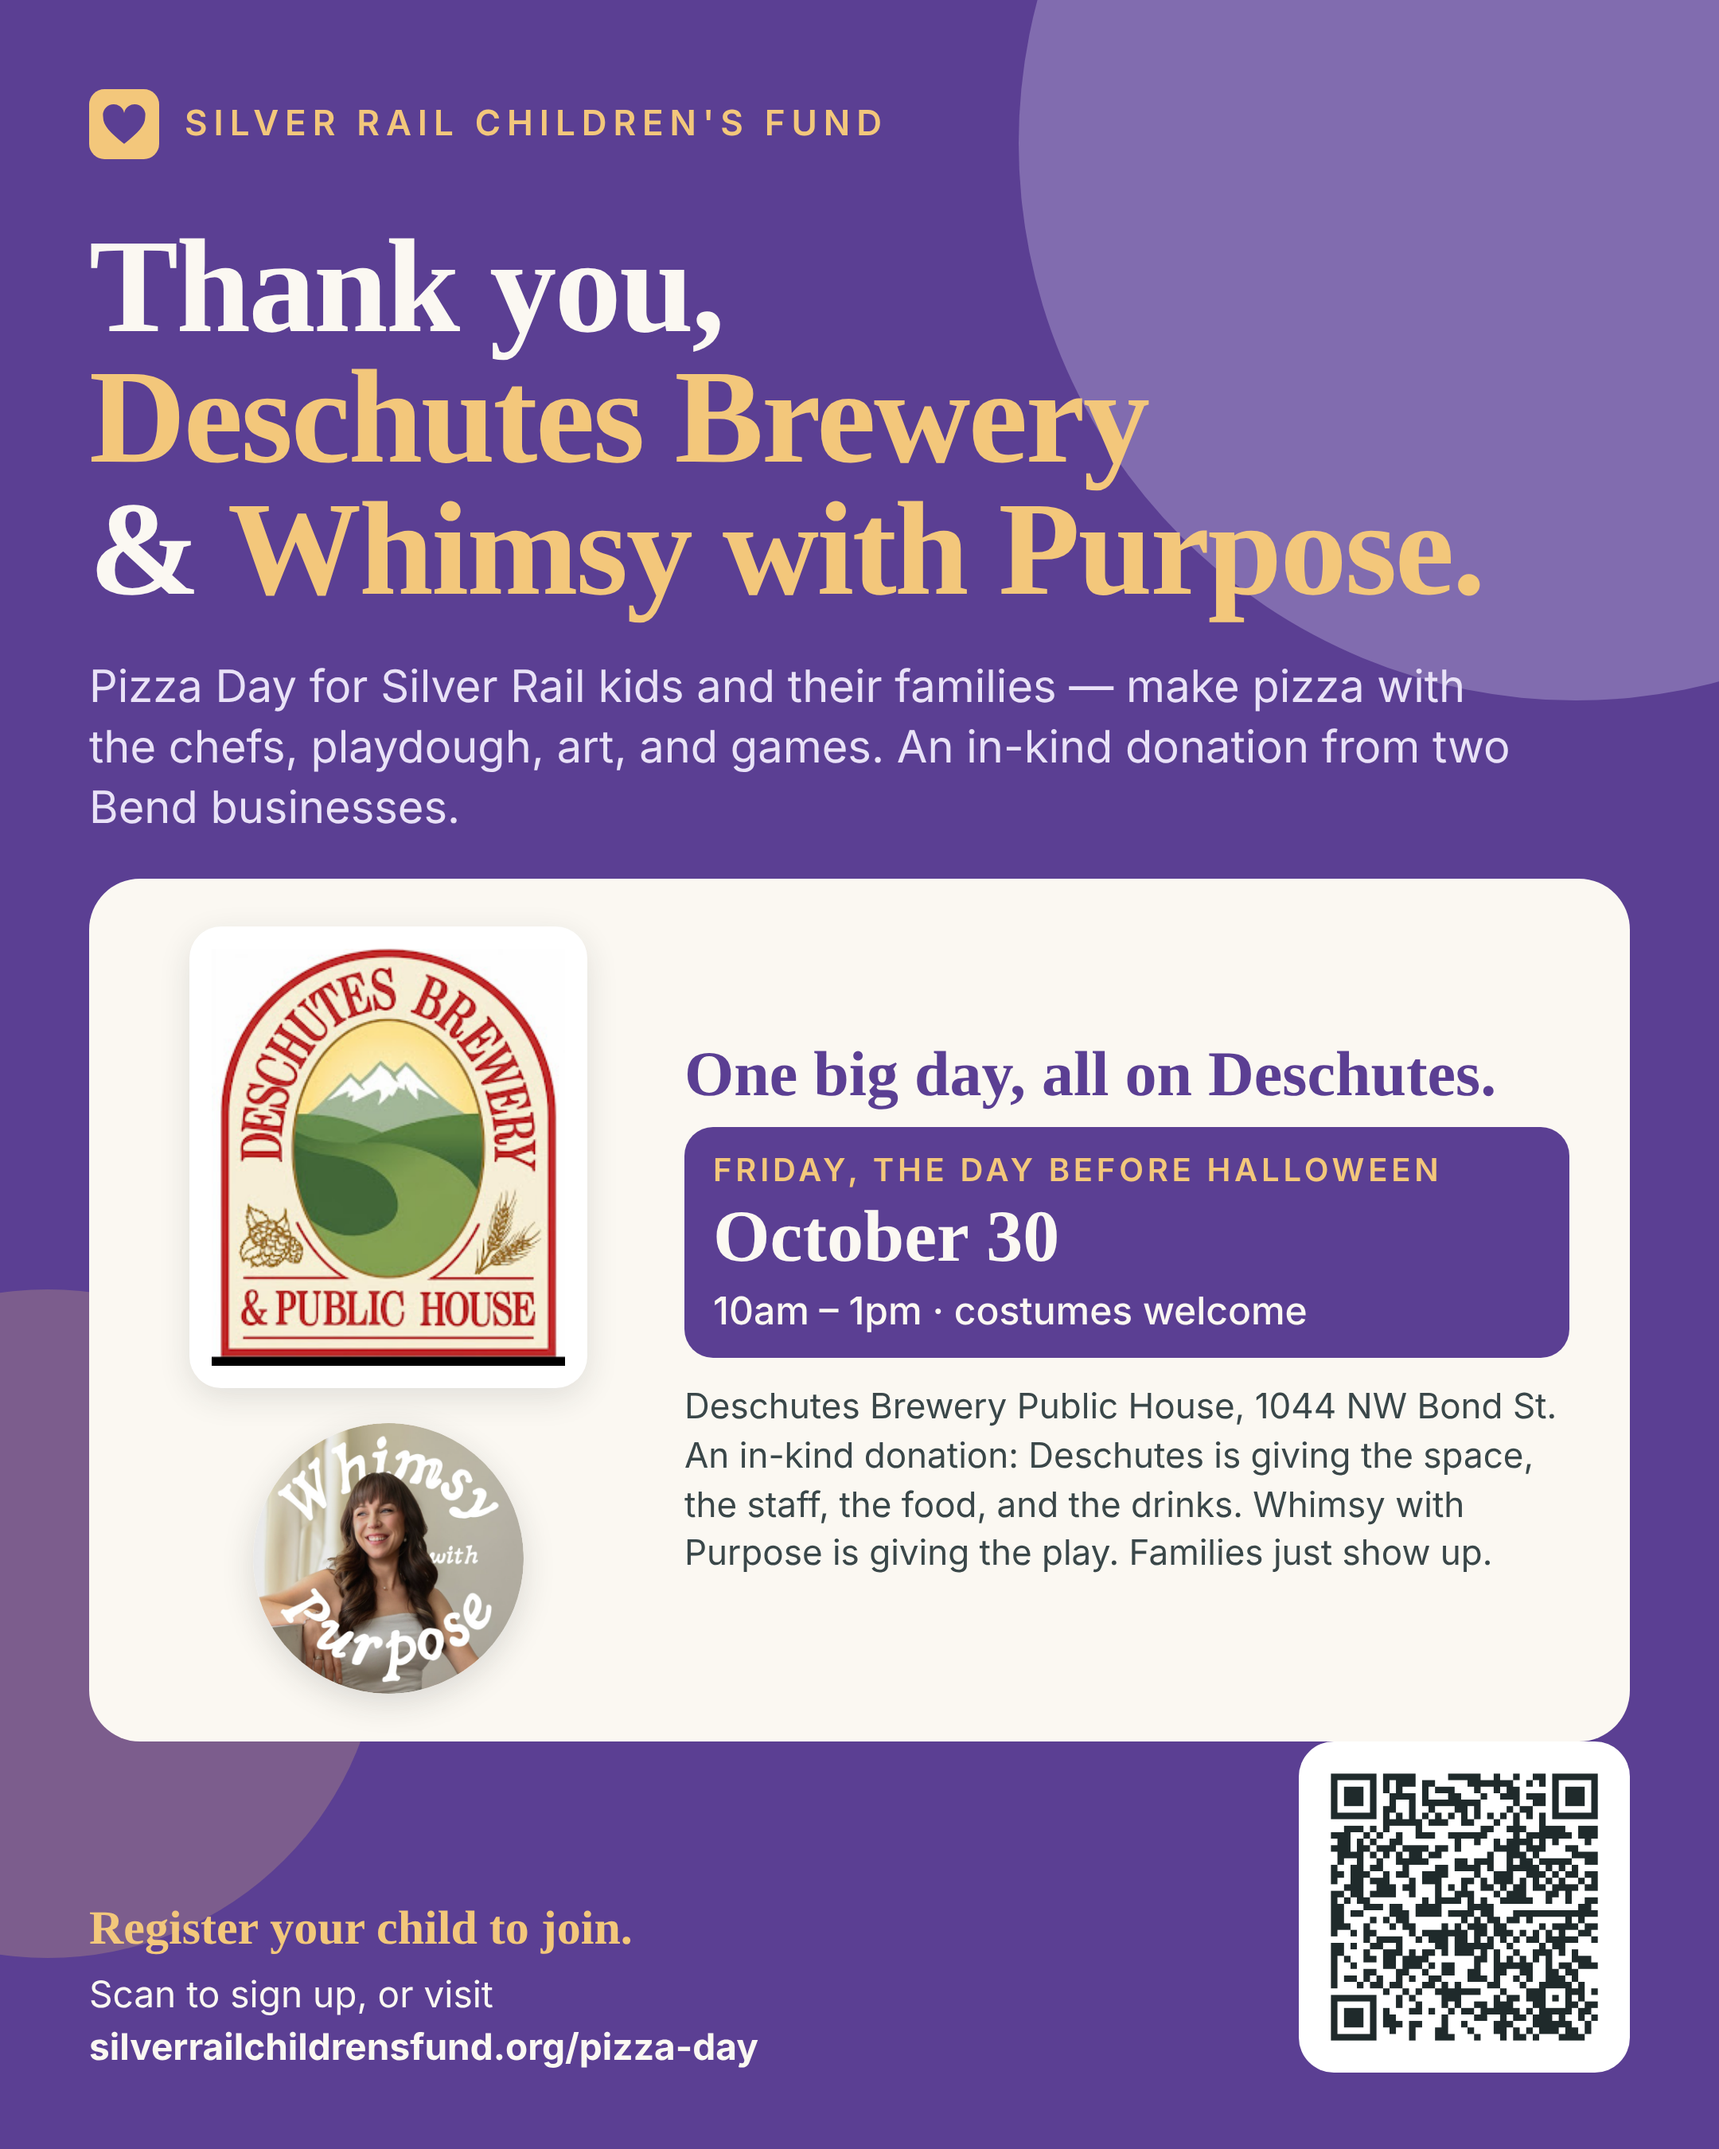
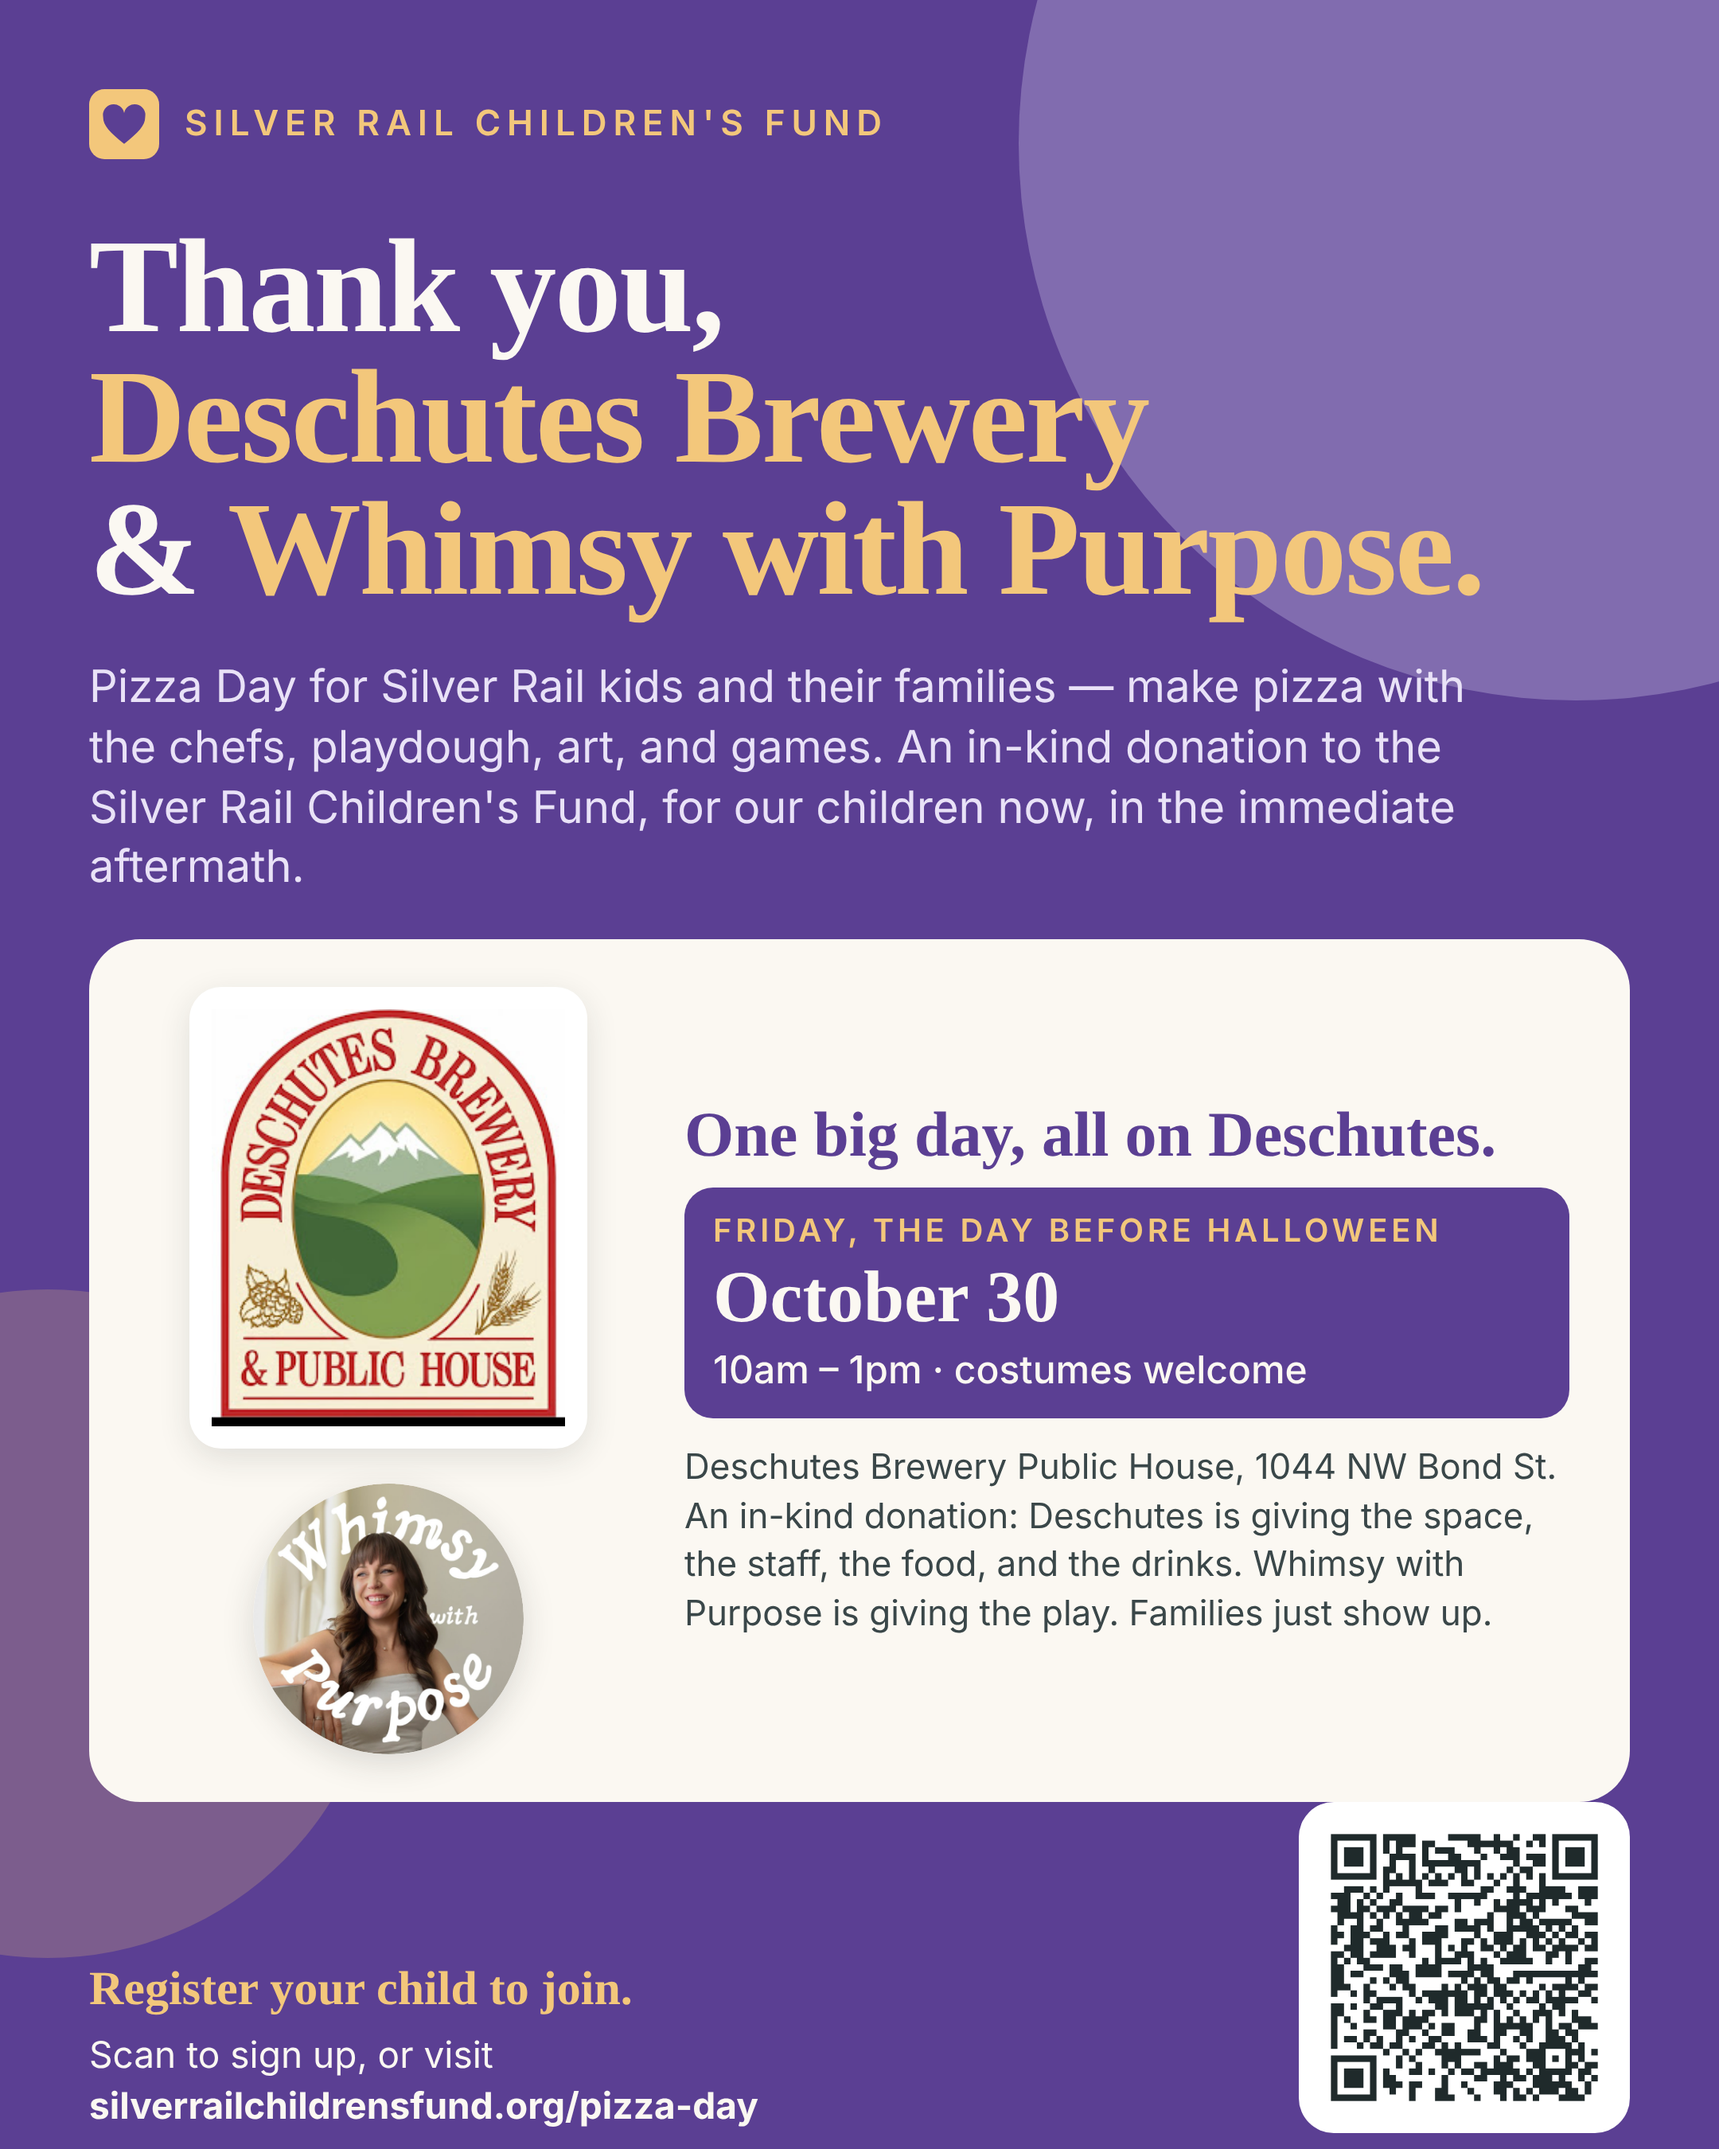
Pizza Day: in-kind donation to the fund, immediate aftermath
Claude-Session: https://claude.ai/code/session_019jt2LXU3CZrv6nyaaDTgQ8

Changed region(s): [[0.031, 0.3422, 0.9616, 0.9956], [0.3722, 0.4667, 0.9306, 0.7778], [0.031, 0.8711, 0.4343, 0.9956]]

diff --git a/pizza-day.html b/pizza-day.html
@@ -194,7 +194,7 @@ dl.faq dd{margin:4px 0 0;color:var(--ink-2)}
 <section id="thanks">
   <div class="wrap">
     <div class="eyebrow">Thank you</div>
-    <h2>An in-kind donation from two Bend businesses.</h2>
+    <h2>An in-kind donation to the fund, for our children now.</h2>
     <div class="thanks">
       <div class="logos">
         <div class="d"><a href="https://www.deschutesbrewery.com/" target="_blank" rel="noopener"><img src="deschutes-crest.png" alt="Deschutes Brewery &amp; Public House"></a></div>
@@ -202,7 +202,7 @@ dl.faq dd{margin:4px 0 0;color:var(--ink-2)}
       </div>
       <div>
         <h3>Deschutes Brewery &amp; Whimsy with Purpose</h3>
-        <p><a href="https://www.deschutesbrewery.com/" target="_blank" rel="noopener">Deschutes Brewery</a> is giving all of it as an in-kind donation: the Public House, the chefs' time, every pizza, and the drinks. Nothing about this day costs the fund a dollar. <a href="https://www.instagram.com/whimsywithpurpose/" target="_blank" rel="noopener">Whimsy with Purpose</a> is bringing the playdough, the toys, and the games. Go say thank you.</p>
+        <p><a href="https://www.deschutesbrewery.com/" target="_blank" rel="noopener">Deschutes Brewery</a> is giving all of it as an in-kind donation to the Silver Rail Children's Fund, to be used now, in the immediate aftermath: the Public House, the chefs' time, every pizza, and the drinks. Nothing about this day costs the fund a dollar. <a href="https://www.instagram.com/whimsywithpurpose/" target="_blank" rel="noopener">Whimsy with Purpose</a> is bringing the playdough, the toys, and the games. Go say thank you.</p>
       </div>
     </div>
   </div>
